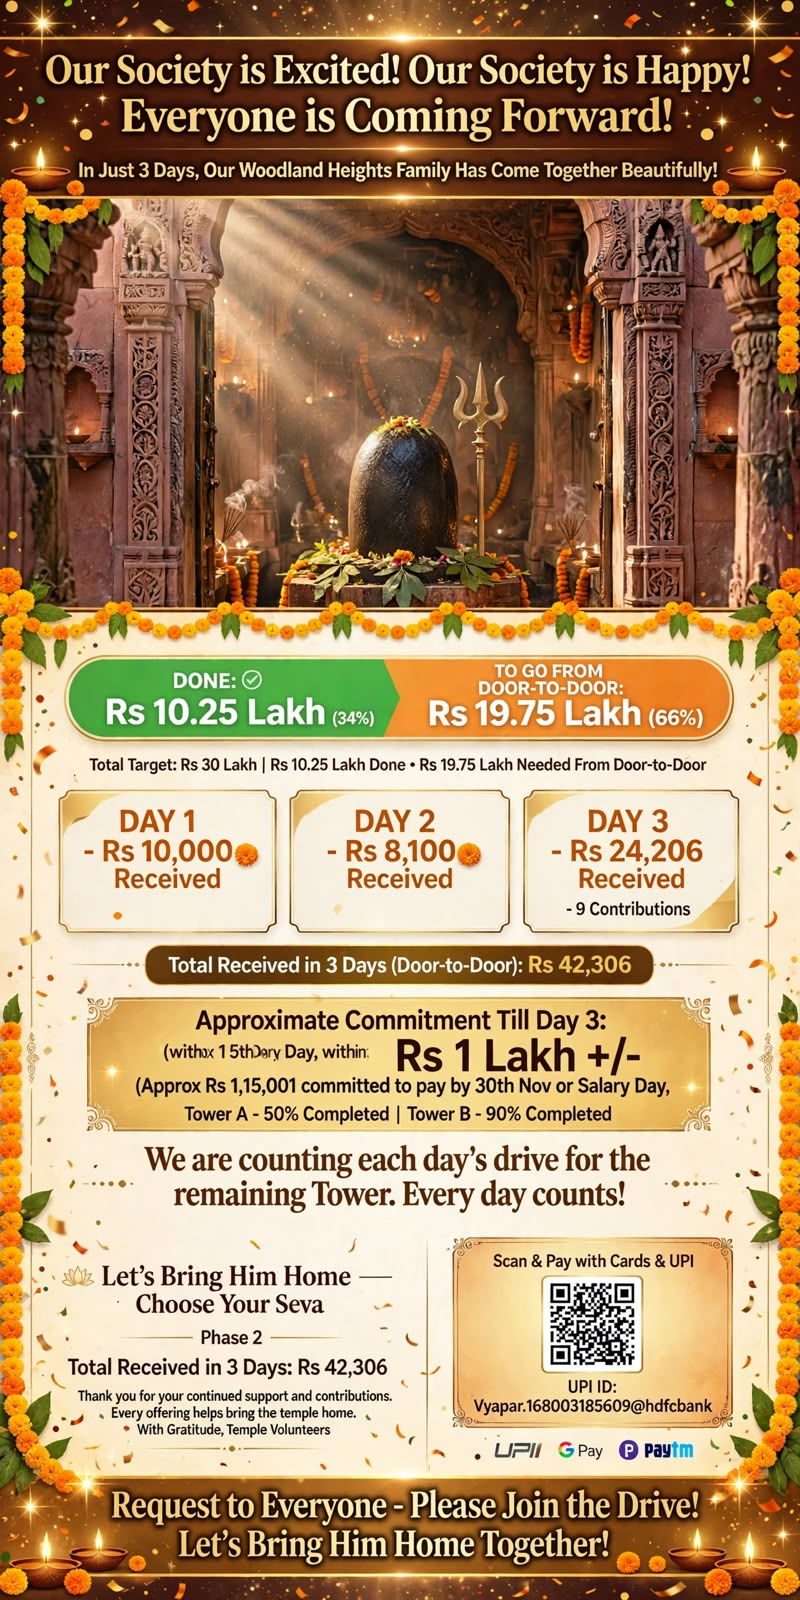
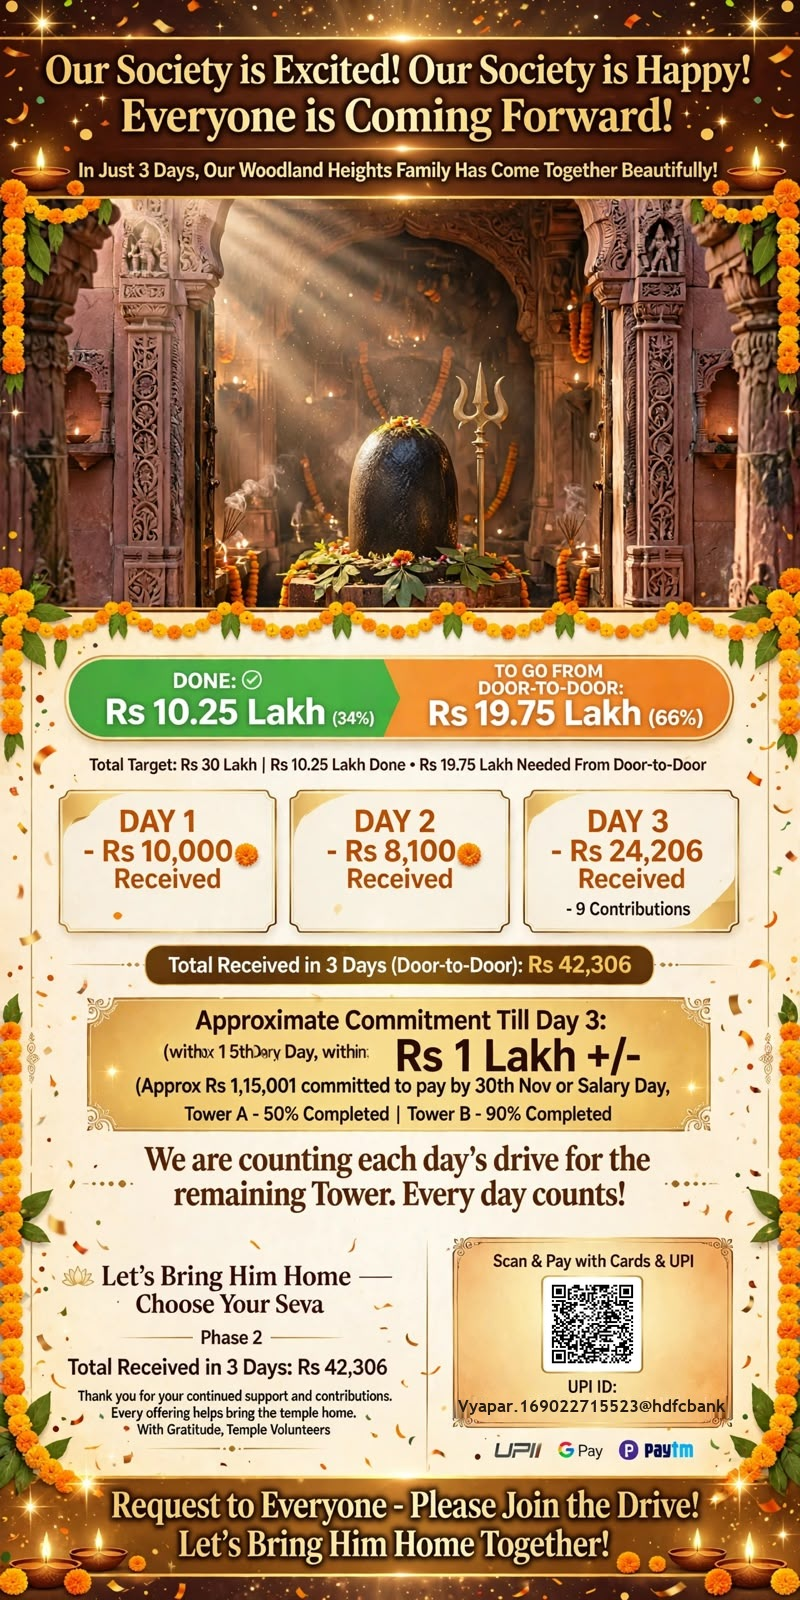
Donate section: HDFC QR, resident self-submit with receipt upload, audit share to Mr. Ram; new UPI ID

Changed region(s): [[0.5625, 0.7812, 0.9062, 0.9062]]

diff --git a/app.js b/app.js
@@ -161,14 +161,15 @@ function defaults() {
     donations: SEED_DONATIONS.map(d => ({ ...d })), pledges: SEED_PLEDGES.map(p => ({ ...p })), volunteers: [], drives: [], polls: defaultPolls(),
     weekPlans: {}, dayProofs: [], presentation: { photos: [], videoFileId: null },
     sevas: DEFAULT_SEVAS.map(s => ({ ...s, bookings: [] })), idols: DEFAULT_IDOLS.map(x => ({ ...x })),
-    coverage: { 'Tower A': 50, 'Tower B': 90 }, meta: { version: 6 },
+    coverage: { 'Tower A': 50, 'Tower B': 90 }, meta: { version: 7 },
   };
 }
 // Real figures from the fundraising deck / all-in-one brief: ₹10.50 L achieved incl. the first 3 days (₹42,306).
 const REAL_SETTINGS = {
   society: 'DLF Woodland Heights', temple: 'Narmadeshwar Mahadev Temple', target: 3000000, opening: 1050000 - 42306,
   deadline: '2026-12-15', minDonation: 5101, homes: 984, foundationPct: 100, builtPct: 28, towers: LETTER_TOWERS,
-  upi: 'Vyapar.168003185609@hdfcbank', address: 'Temple site beside Towers L–T, DLF Woodland Heights, Bommasandra–Jigani Link Rd, Bengaluru',
+  upi: 'Vyapar.169022715523@hdfcbank', upiQr: 'upi://pay?pa=Vyapar.169022715523@hdfcbank&pn=Default&mc=8999&tr=STQU169022715523&cu=INR',
+  auditName: 'Mr. Ram', auditPhone: '9008225906', address: 'Temple site beside Towers L–T, DLF Woodland Heights, Bommasandra–Jigani Link Rd, Bengaluru',
   mapQuery: 'DLF Woodland Heights, Jigani, Bengaluru', reminderTpl: DEFAULT_REMINDER, thanksTpl: DEFAULT_THANKS,
 };
 /* One-time upgrade of data saved by the first version of the app. */
@@ -229,12 +230,20 @@ function migrate6(s) {
   s.meta = { version: 6 };
   return s;
 }
+/* v7: temple UPI moved to the HDFC SmartHub QR account. */
+function migrate7(s) {
+  if ((s.meta?.version || 1) >= 7) return s;
+  const st = s.settings ||= {};
+  if (!st.upi || st.upi === 'Vyapar.168003185609@hdfcbank') { st.upi = REAL_SETTINGS.upi; st.upiQr = REAL_SETTINGS.upiQr; }
+  s.meta = { version: 7 };
+  return s;
+}
 
 /* ---------- persistence ---------- */
 const KEY = 'templeFundDrive.v1';
 function merge(o) {
   const d = defaults();
-  const o2 = migrate6(migrate5(migrate4(migrate3(migrate({ ...o, settings: { ...(o.settings || {}) }, donations: o.donations || [], pledges: o.pledges || [], volunteers: o.volunteers || [], drives: o.drives || [] })))));
+  const o2 = migrate7(migrate6(migrate5(migrate4(migrate3(migrate({ ...o, settings: { ...(o.settings || {}) }, donations: o.donations || [], pledges: o.pledges || [], volunteers: o.volunteers || [], drives: o.drives || [] }))))));
   return { ...d, ...o2, settings: { ...d.settings, ...o2.settings }, presentation: { ...d.presentation, ...(o2.presentation || {}) } };
 }
 function load() {
@@ -473,6 +482,7 @@ RENDER.dashboard = () => {
   else callout = `<div class="callout warn">⚠ At the last-7-day pace (${inr(avg7)}/day) we would reach <b>${lakh(projected)}</b> by ${fmtD(st.deadline)} — short by <b>${lakh(st.target - projected)}</b>. We need <b>${inr(T.perDay)}/day</b> from now.</div>`;
 
   return `
+  ${donateCard()}
   <section class="card">
     <div class="hero-top">
       <div><div class="eyebrow">Achieved so far</div><div class="big">${lakh(T.achieved)} <span class="of">of ${lakh(st.target)}</span></div></div>
@@ -608,6 +618,80 @@ function todaysDrive() {
     <div class="small muted">Target ${inr(d.target)} · Collected so far ${inr(driveCollected(d))}</div></div>`).join('<hr style="border:0;border-top:1px solid var(--border)">');
 }
 
+/* ---------- Donate (residents) ---------- */
+const fmtPhone = p => { const d = String(p || '').replace(/\D/g, '').slice(-10); return d.length === 10 ? `${d.slice(0, 5)} ${d.slice(5)}` : p; };
+function upiLink() { const st = S.settings; return st.upiQr || (st.upi ? `upi://pay?pa=${encodeURIComponent(st.upi)}&pn=${encodeURIComponent(st.temple)}&cu=INR` : ''); }
+function donateCard() {
+  const st = S.settings, qrOk = st.upi === REAL_SETTINGS.upi;
+  return `<section class="card donate" id="donate">
+    <div class="donate-grid">
+      <div class="qr-box">
+        ${qrOk ? `<img src="assets/upi-qr.png" alt="UPI QR code for ${esc(st.upi)}" width="200" height="200">` : ''}
+        <div class="upi-id"><span>${esc(st.upi)}</span> <button class="btn sm" data-act="copyUpi">Copy</button></div>
+        <div class="small muted">HDFC Bank · GPay · PhonePe · Paytm · Cards</div>
+      </div>
+      <div class="donate-body">
+        <div class="eyebrow">Donate to ${esc(st.temple)}</div>
+        <h2>Scan · Pay · Send us your receipt 🙏</h2>
+        <ol class="steps">
+          <li>Scan the QR with any UPI app and give from <b>${inr(st.minDonation)}</b>, or any amount your heart feels. Every offering is a seva.</li>
+          <li>Take a <b>screenshot</b> of the successful payment.</li>
+          <li>Tap <b>Submit my donation</b>. Enter your name, flat, owner or tenant, and upload the screenshot.</li>
+          <li>Send the receipt on WhatsApp to <b>${esc(st.auditName)} · ${esc(fmtPhone(st.auditPhone))}</b> for audit. Your thank-you receipt follows.</li>
+        </ol>
+        <div class="row-actions">
+          <a class="btn mobile-only" href="${esc(upiLink())}">📱 Pay with UPI app</a>
+          <button class="btn primary" data-act="selfDonate">🧾 Submit my donation</button>
+          <button class="btn wa" data-act="shareAudit">💬 WhatsApp ${esc(st.auditName)}</button>
+        </div>
+      </div>
+    </div>
+  </section>`;
+}
+function selfDonateForm() {
+  resetPending([]);
+  const st = S.settings;
+  openModal(`<form class="form" data-form="selfDonate">
+    <h3>🧾 Submit my donation</h3>
+    <p class="hint">Paid by UPI? Fill this in and attach the payment screenshot. Your details go only to the temple committee, for receipts and audit.</p>
+    <div class="grid2">
+      <label class="span2">Your name<input name="donor" required autocomplete="name" placeholder="e.g. Ishita Das"></label>
+      <label>Tower<select name="tower" required><option value="">Choose…</option>${towerOpts('', false)}</select></label>
+      <label>Flat no.<input name="flat" required inputmode="numeric" placeholder="e.g. 082"></label>
+      <fieldset class="span2"><legend>I am the</legend>${radios('occupancy', ['Owner', 'Tenant'], '')}</fieldset>
+      <label>Mobile (WhatsApp)<input name="phone" type="tel" inputmode="tel" required autocomplete="tel" placeholder="10-digit number"></label>
+      <label>Amount paid (₹)<input name="amount" type="number" min="1" step="1" required inputmode="numeric" placeholder="${st.minDonation}"></label>
+    </div>
+    <div class="chips">${TIERS.slice(0, 8).map(t => `<button type="button" class="chip" data-act="setAmt" data-v="${t}">${inr(t)}</button>`).join('')}</div>
+    <fieldset><legend>Paid by</legend>${radios('mode', ['UPI', 'Bank Transfer', 'Cash to volunteer'], 'UPI')}
+      <label>UPI transaction / UTR no. <span class="muted small">(optional, from the screenshot)</span><input name="ref" inputmode="numeric" autocomplete="off"></label></fieldset>
+    ${dropzone('Upload payment screenshot')}
+    <div class="actions"><button type="button" class="btn ghost" data-act="closeModal">Cancel</button><button class="btn primary">Submit 🙏</button></div></form>`);
+}
+function auditMsg(r) {
+  const st = S.settings;
+  return [`🧾 *Temple donation — receipt for audit*`, `${st.temple}`, ``,
+    `Name: *${r.donor}*`, `Flat: ${r.tower} · ${r.flat} (${r.occupancy})`, `Mobile: ${r.phone}`,
+    `Amount: *${inr(r.amount)}* · ${r.mode}`, r.ref ? `UPI / UTR ref: ${r.ref}` : null, `Date: ${fmtD(r.date)}`, ``,
+    r.mode === 'Cash to volunteer' ? `Cash handed to a temple volunteer.` : `📎 Payment screenshot attached.`, `Har Har Mahadev 🙏`].filter(l => l !== null).join('\n');
+}
+function thanksScreen(r) {
+  const st = S.settings, canFile = !!(UI.lastShare && navigator.canShare && navigator.canShare({ files: UI.lastShare }));
+  openModal(`<div class="form thanks">
+    <div class="thanks-om">🔱</div>
+    <h3>Thank you, ${esc(r.donor)} ji! 🙏</h3>
+    <p>Your offering of <b>${inr(r.amount)}</b> is a seva towards bringing <b>Narmadeshwar Mahadev</b> home to ${esc(st.society)}. May Mahadev bless your family.</p>
+    <div class="callout info"><b>One last step, for audit:</b> send this receipt to <b>${esc(st.auditName)} (${esc(fmtPhone(st.auditPhone))})</b> on WhatsApp.
+      ${canFile ? 'Tap <b>Share receipt</b>, choose <b>WhatsApp</b>, then pick ' + esc(st.auditName) + '.' : 'WhatsApp opens with your details filled in. Tap 📎 and attach your payment screenshot before sending.'}</div>
+    <div class="row-actions" style="justify-content:center;flex-wrap:wrap">
+      ${canFile ? `<button class="btn primary" data-act="shareReceiptFile">📤 Share receipt + screenshot</button>` : ''}
+      <button class="btn ${canFile ? '' : 'primary'} wa" data-act="sendAudit">💬 WhatsApp ${esc(st.auditName)}</button>
+      <button class="btn" data-act="shareFilm">🎬 Share temple film with neighbours</button>
+    </div>
+    <p class="small muted" style="margin-top:12px">Saved on this phone · ${fmtD(r.date)} · ${esc(r.tower)} ${esc(r.flat)}</p>
+    <div class="actions"><button type="button" class="btn ghost" data-act="closeModal">Done</button></div></div>`);
+}
+
 /* ---------- Collections ---------- */
 RENDER.collections = () => {
   const f = UI.col;
@@ -619,6 +703,7 @@ RENDER.collections = () => {
     <button class="btn ghost" data-act="exportCSV">⬇ Export CSV</button>
   </div>
   <section class="card"><div class="card-h"><h2>Day-wise summary</h2><span class="muted small">Tap a day to filter the list</span></div>${daySummary()}</section>
+  ${subsSection()}
   <section class="card" id="cash"><div class="card-h"><h2>💵 Cash collection</h2><span class="muted small">Kept separate from UPI until it reaches the temple account</span></div>${cashSection()}</section>
   <section class="card">
     <div class="card-h"><h2>All collections</h2></div>
@@ -637,6 +722,14 @@ RENDER.collections = () => {
     ${proofGallery()}
   </section>`;
 };
+function subsSection() {
+  const list = (S.submissions || []).filter(x => !x.addedId);
+  if (!list.length) return '';
+  return `<section class="card"><div class="card-h"><h2>📲 Resident submissions on this phone</h2><span class="muted small">Check against the bank statement, then add to collections</span></div>
+  <div class="rem-list">${list.map(x => `<div class="rem"><div><div class="who">${esc(x.donor)} · ${inr(x.amount)}</div>
+    <div class="meta">${fmtD(x.date)} · ${esc(x.tower)} ${esc(x.flat)} (${esc(x.occupancy || '—')}) · ${esc(x.mode)}${x.ref ? ' · ref ' + esc(x.ref) : ''} · ${esc(x.phone)}</div>${thumbs(x.receiptIds)}</div>
+    <div class="row-actions"><button class="btn sm primary" data-act="acceptSub" data-id="${x.id}">✅ Add to collections</button><button class="btn sm icon danger" data-act="delSub" data-id="${x.id}" title="Delete">🗑</button></div></div>`).join('')}</div></section>`;
+}
 function cashStats() {
   const cash = S.donations.filter(d => d.mode === 'Cash');
   const held = cash.filter(d => !d.depositedOn);
@@ -1152,7 +1245,8 @@ function donationForm(d = {}) {
       <label>Amount received (₹)<input type="number" name="amount" min="1" step="1" required inputmode="numeric" value="${esc(d.amount || '')}" placeholder="${st.minDonation}"></label>
       <label class="span2">Donor name<input name="donor" required value="${esc(d.donor || '')}" autocomplete="off"></label>
       <label>Tower<select name="tower" required>${towerOpts(d.tower)}</select></label>
-      <label>Flat no.<input name="flat" required value="${esc(d.flat || '')}" placeholder="e.g. 1204"></label>
+      <label>Flat no.<input name="flat" required value="${esc(d.flat || '')}" placeholder="e.g. 082"></label>
+      <fieldset class="span2"><legend>Resident</legend>${radios('occupancy', ['Owner', 'Tenant'], d.occupancy || '')}</fieldset>
       <label>Phone (WhatsApp)<input name="phone" type="tel" inputmode="tel" value="${esc(d.phone || '')}"></label>
       <label>Collected by<input name="collectedBy" list="vol-list" value="${esc(d.collectedBy || '')}" placeholder="Volunteer name"></label>
     </div>
@@ -1250,6 +1344,21 @@ function voteForm(p) {
 }
 
 const FORMS = {
+  async selfDonate(fd) {
+    const amount = Math.round(+fd.amount);
+    if (!(amount > 0)) return toast('Enter the amount you paid');
+    if (!fd.occupancy) return toast('Please choose Owner or Tenant');
+    if (String(fd.phone).replace(/\D/g, '').length < 10) return toast('Enter your 10-digit mobile number');
+    if (fd.mode !== 'Cash to volunteer' && !pending.files.length) return toast('Please upload the payment screenshot 📎');
+    const files = [...pending.files];
+    const ids = await storeFiles(files);
+    const rec = { id: uid(), created: Date.now(), date: today(), donor: fd.donor.trim(), tower: fd.tower, flat: fd.flat.trim(), occupancy: fd.occupancy,
+      phone: fd.phone.trim(), amount, mode: fd.mode, ref: (fd.ref || '').trim(), receiptIds: ids };
+    (S.submissions ||= []).push(rec); save();
+    UI.lastSub = rec;
+    UI.lastShare = files.filter(f => f.type.startsWith('image/') || f.type === 'application/pdf').map((f, i) => f instanceof File ? f : new File([f], `receipt-${i + 1}.jpg`, { type: f.type || 'image/jpeg' }));
+    thanksScreen(rec);
+  },
   async donation(fd) {
     const amount = Math.round(+fd.amount);
     if (!(amount > 0)) return toast('Enter the amount received');
@@ -1262,7 +1371,7 @@ const FORMS = {
       status: fd.status || 'Full', mode: fd.mode || 'UPI', ref: fd.ref.trim(), collectedBy: fd.collectedBy.trim(), notes: fd.notes.trim(),
       committed: fd.status === 'Part' ? Math.round(+fd.committed || 0) : 0, reminderDate: fd.reminderDate || '',
       receiptIds: [...(d ? pending.keep : []), ...newIds],
-      cashWith: fd.mode === 'Cash' ? (fd.cashWith || '').trim() || fd.collectedBy.trim() : '', depositedOn: fd.mode === 'Cash' ? fd.depositedOn || '' : '',
+      occupancy: fd.occupancy || '', cashWith: fd.mode === 'Cash' ? (fd.cashWith || '').trim() || fd.collectedBy.trim() : '', depositedOn: fd.mode === 'Cash' ? fd.depositedOn || '' : '',
     };
     if (d) Object.assign(d, rec); else { d = { id: uid(), created: Date.now(), ...rec }; S.donations.push(d); }
     let msg = 'Collection saved 🙏';
@@ -1589,13 +1698,31 @@ const ACTIONS = {
     const lines = days.map(d => { const ds = S.donations.filter(x => x.date === d); return ds.length ? `${fmtWD(d)}: ${inr(sum(ds.map(x => x.amount)))} (${ds.length} entr${ds.length === 1 ? 'y' : 'ies'})` : null; }).filter(Boolean);
     openWA('', `📒 *Weekly ledger — ${S.settings.temple}*\nWeek of ${fmtD(ws)}\n\n${lines.join('\n') || 'No collections recorded yet this week.'}\n\n*This week:* ${inr(sumRange(ws, t))}\n*Total achieved:* ${lakh(T.achieved)} of ${lakh(S.settings.target)} (${T.pct.toFixed(1)}%)\n*Pledged, still due:* ${inr(T.pledgedPending)}\n*Remaining:* ${lakh(T.remaining)} · ${T.daysLeft} days to Prana Pratishtha\n\nEvery rupee receipted 🙏 Har Har Mahadev`);
   },
+  selfDonate: () => selfDonateForm(),
+  acceptSub: ds => {
+    const x = S.submissions.find(v => v.id === ds.id); if (!x) return;
+    const d = { id: uid(), created: Date.now(), date: x.date, donor: x.donor, phone: x.phone, tower: x.tower, flat: x.flat, occupancy: x.occupancy, amount: x.amount,
+      status: 'Full', mode: x.mode === 'Cash to volunteer' ? 'Cash' : x.mode, ref: x.ref, collectedBy: 'Self (resident form)', notes: 'Submitted by resident', receiptIds: [...x.receiptIds], committed: 0 };
+    S.donations.push(d); x.addedId = d.id; save(); render(); toast(`${x.donor} added to collections 🙏`);
+  },
+  delSub: ds => { if (!confirm('Delete this submission?')) return; const x = S.submissions.find(v => v.id === ds.id); delFiles(x.receiptIds); S.submissions = S.submissions.filter(v => v.id !== ds.id); save(); render(); },
+  shareAudit: () => {
+    const st = S.settings;
+    openWA(st.auditPhone, `🧾 *Temple donation — receipt for audit*\n${st.temple}\n\nName: \nTower & flat: \nOwner / Tenant: \nAmount: ₹\nUPI / UTR ref: \n\n📎 Payment screenshot attached.\nHar Har Mahadev 🙏`);
+  },
+  sendAudit: () => { const r = UI.lastSub; if (r) openWA(S.settings.auditPhone, auditMsg(r)); },
+  shareReceiptFile: async () => {
+    const r = UI.lastSub; if (!r) return;
+    try { await navigator.share({ files: UI.lastShare, text: auditMsg(r) }); }
+    catch (e) { if (e.name !== 'AbortError') { toast('Sharing not available — opening WhatsApp instead'); openWA(S.settings.auditPhone, auditMsg(r)); } }
+  },
   depositCash: ds => {
     const list = cashStats().byHolder[ds.who] || [];
     if (!list.length || !confirm(`Mark ${inr(sum(list.map(d => d.amount)))} cash held by ${ds.who} as deposited to the temple account today?`)) return;
     list.forEach(d => d.depositedOn = today()); save(); render(); toast('Cash marked as deposited ✅');
   },
   exportCSV: () => {
-    const cols = ['date', 'donor', 'phone', 'tower', 'flat', 'amount', 'status', 'committed', 'mode', 'ref', 'collectedBy', 'cashWith', 'depositedOn', 'notes'];
+    const cols = ['date', 'donor', 'phone', 'tower', 'flat', 'amount', 'status', 'committed', 'occupancy', 'mode', 'ref', 'collectedBy', 'cashWith', 'depositedOn', 'notes'];
     const rows = [...S.donations].sort((a, b) => a.date.localeCompare(b.date)).map(d => cols.map(c => d[c] ?? '').concat((d.receiptIds || []).length));
     download(`collections-${today()}.csv`, toCSV([[...cols, 'receipts'], ...rows]), 'text/csv');
   },

diff --git a/styles.css b/styles.css
@@ -373,3 +373,19 @@ dialog::backdrop { background: rgba(20, 12, 4, .55); }
 .offer-list { display: grid; gap: 6px; }
 .offer-list > div { display: flex; justify-content: space-between; gap: 10px; padding: 7px 10px; background: var(--surface-2); border-radius: 8px; font-size: .9rem; }
 .offer-list b { color: var(--accent-strong); font-variant-numeric: tabular-nums; white-space: nowrap; }
+
+/* ---------- Donate card (residents) ---------- */
+.donate { border: 2px solid var(--gold); background: linear-gradient(135deg, var(--surface), color-mix(in srgb, var(--gold) 10%, var(--surface))); }
+.donate-grid { display: grid; grid-template-columns: auto minmax(0, 1fr); gap: 20px; align-items: center; }
+.qr-box { text-align: center; display: grid; gap: 6px; justify-items: center; }
+.qr-box img { width: 200px; height: 200px; border-radius: 10px; background: #fff; padding: 6px; border: 1px solid var(--border); image-rendering: pixelated; }
+.upi-id { font-weight: 700; font-size: .9rem; word-break: break-all; display: flex; gap: 6px; align-items: center; justify-content: center; flex-wrap: wrap; }
+.donate-body h2 { margin: 2px 0 8px; }
+.steps { margin: 0 0 12px; padding-left: 20px; display: grid; gap: 4px; }
+.donate .row-actions { flex-wrap: wrap; }
+.mobile-only { display: none; }
+@media (hover: none) and (pointer: coarse) { .mobile-only { display: inline-flex; } }
+@media (max-width: 640px) { .donate-grid { grid-template-columns: minmax(0, 1fr); } .qr-box img { width: 220px; height: 220px; } }
+.thanks { text-align: center; }
+.thanks-om { font-size: 2.6rem; line-height: 1; }
+.thanks .callout { text-align: left; margin: 12px 0; }
